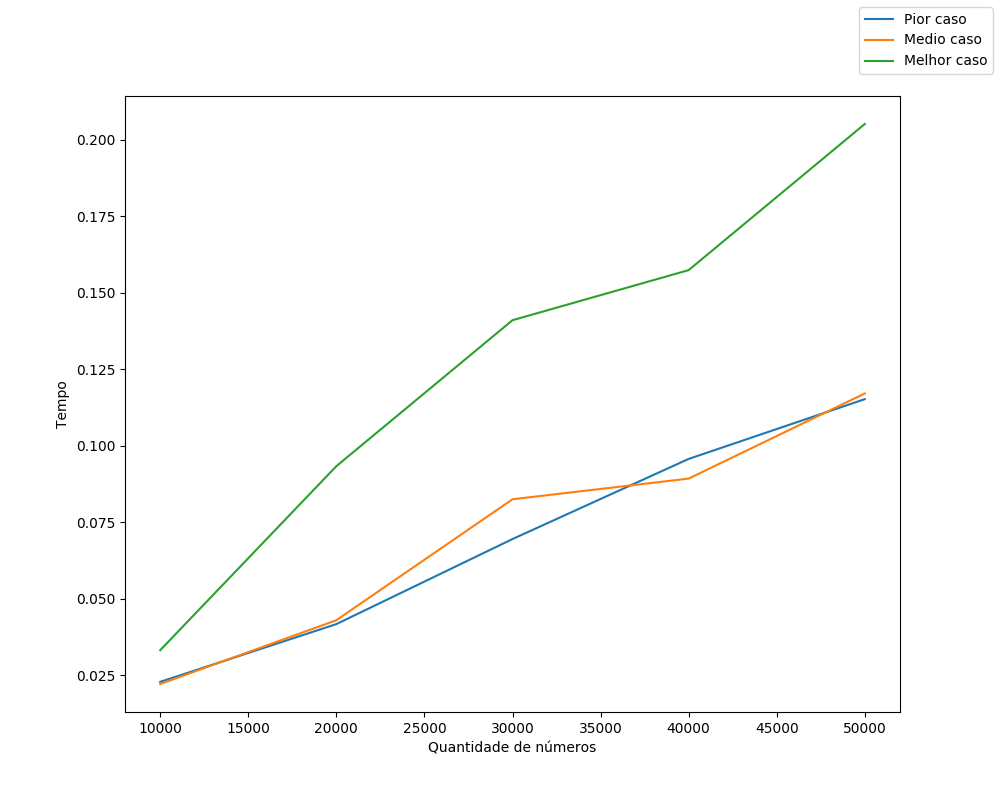
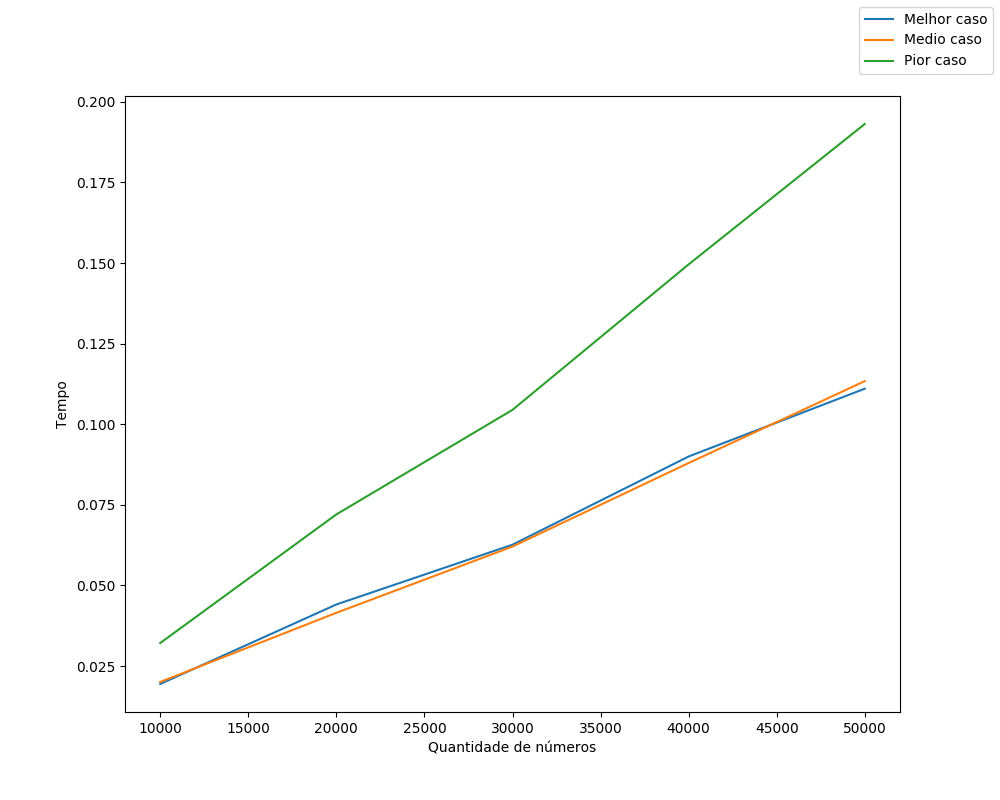
update

diff --git a/ShellSort/main.py b/ShellSort/main.py
@@ -15,25 +15,17 @@ def desenhaGrafico(x, y, graphLabel, fileName, xl = "Quantidade de números", yl
     fig.savefig(fileName)
 
 def shellSort(arr): 
-    # Start with a big gap, then reduce the gap 
+    
     n = len(arr)
     gap = n//2
-    # Do a gapped insertion sort for this gap size. 
-    # The first gap elements a[0..gap-1] are already in gapped  
-    # order keep adding one more element until the entire array 
-    # is gap sorted 
+
     while gap > 0: 
         for i in range(gap,n): 
-            # add a[i] to the elements that have been gap sorted 
-            # save a[i] in temp and make a hole at position i 
             temp = arr[i] 
-            # shift earlier gap-sorted elements up until the correct 
-            # location for a[i] is found 
             j = i 
             while  j >= gap and arr[j-gap] >temp: 
                 arr[j] = arr[j-gap] 
                 j -= gap 
-            # put temp (the original a[i]) in its correct location 
             arr[j] = temp 
         gap //= 2
 
@@ -65,5 +57,5 @@ for i in x:
     yPiorCaso.append(timeit.timeit("shellSort({})".format(geraListaInvertida(i)),setup="from __main__ import shellSort",number=1))
 
 casos = [yMelhorCaso, yMedioCaso, yPiorCaso]
-casosLabel = ['Pior caso', 'Medio caso', 'Melhor caso']
+casosLabel = ['Melhor caso', 'Medio caso', 'Pior caso']
 desenhaGrafico(x, casos, casosLabel, 'ShellSortCasos.png')
